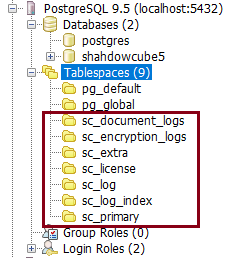
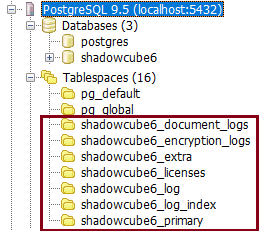
add tablespace pages

diff --git a/ShadowCube/2_sc_sqlserver_filegroup.html b/ShadowCube/2_sc_sqlserver_filegroup.html
@@ -1,0 +1,72 @@
+<!DOCTYPE html>
+<html>
+<head>
+  <meta charset="utf-8" />
+  <title>인성의 DB강의</title>
+  <link rel="stylesheet" type="text/css" media="screen" href="../css/style.css" />
+  <link rel="stylesheet" type="text/css" media="screen" href="../css/github.css" />
+</head>
+<body>
+  <h3>ShadowCube 데이터베이스 구조</h3>
+
+  <h1>SQL Server 파일 및 파일그룹</h1>
+  <ul>
+    <li>
+      ShadowCube 의 SQL Server 에서 사용하는 파일 및 파일그룹에 대해 알아보자.
+    </li>
+  </ul>
+
+  <ol>
+    <li>
+      File Groups<br />
+      <img src="./chapter2/sqlserver_filegroup_1.png" alt="" class="img-xlarge m-l-xs" /><br />
+      <ul>
+        <li>
+          SQL Server 는 데이터베이스의 default 파일그룹이 PRIMARY 로 생성이 된다. 이는 변경할 수 없다. 따라서 ShadowCube 도 PRIMARY 파일그룹을 사용한다.
+        </li>
+        <li>
+          그 외 나머지 파일그룹은 데이터의 성격별로 구분한 것이다.
+        </li>
+        <li>
+          여기서 파일그룹명 prefix 문자열인 shadowcube6 는 정책센터 최초 설치 시, 관리자가 직접 입력한 데이터베이스명을 따라 생성된다.
+        </li>
+      </ul>
+    </li>
+    <li>
+      최초 설치 시, 기본 생성되는 Files<br />
+      <img src="./chapter2/sqlserver_files_1.png" alt="" class="img-xlarge m-l-xs" />
+    </li>
+    <li>
+      이후, 로그 데이터가 쌓이면 새로운 File 이 생성됨<br />
+      <img src="./chapter2/sqlserver_files_2.png" alt="" class="img-xlarge m-l-xs" />
+    </li>
+  </ol>
+
+  <h3>파일그룹별로 쌓이는 데이터 종류</h3>
+  <ul>
+    <li>
+      가장 중요한 데이터는 PRIMARY 파일그룹에 저장하고, 그 외 각 데이터의 성격별로 파일그룹을 만들어 저장한다.
+    </li>
+    <li>
+      복호화 요청, 결재 등은 shadowcube6_extra 에 저장되고, 라이선스 데이터는 shadowcube6_licenses 에 저장된다.
+    </li>
+    <li>
+      문서사용로그는 shadowcube6_document_logs, 암호화로그는 shadowcube6_encryption_logs 에 저장된다.
+    </li>
+    <li>
+      이는 PostgreSQL 과 동일하게 구성되어 있다.
+    </li>
+  </ul>
+
+  <img src="./chapter2/sc_tablespace.png" alt="" class="img-xlarge m-l-xs" />
+  
+  <br /><br />
+  <hr />
+  <a href="../index.html">처음으로</a>&nbsp;&nbsp;
+  <a href="./1_exercise.html">이전</a>
+  <a href="./3_sc_postgres_tablespace.html" class="pull-right">다음</a>
+  <footer>
+    powered by insung / last modified date: 2018-11
+  </footer>
+</body>
+</html>

diff --git a/ShadowCube/3_sc_postgres_tablespace.html b/ShadowCube/3_sc_postgres_tablespace.html
@@ -1,0 +1,43 @@
+<!DOCTYPE html>
+<html>
+<head>
+  <meta charset="utf-8" />
+  <title>인성의 DB강의</title>
+  <link rel="stylesheet" type="text/css" media="screen" href="../css/style.css" />
+  <link rel="stylesheet" type="text/css" media="screen" href="../css/github.css" />
+</head>
+<body>
+  <h3>ShadowCube 데이터베이스 구조</h3>
+
+  <h1>PostgreSQL Tablespace</h1>
+  <ul>
+    <li>
+      ShadowCube 의 PostgreSQL 에서 사용하는 Tablespace 에 대해 알아보자.
+    </li>
+  </ul>
+
+  <ol>
+    <li>
+      PostgreSQL Tablespace 목록<br />
+      <img src="./chapter2/postgres_tablespace_1.png" alt="" class="img-small m-l-xs" />
+    </li>
+    <li>
+      shadowcube5 데이터베이스의 기본 tablespace<br />
+      <img src="./chapter2/postgres_tablespace_2.png" alt="" class="img-xlarge m-l-xs" />
+    </li>
+    <li>
+      디렉토리 구조<br />
+      <img src="./chapter2/postgres_tablespace_3.png" alt="" class="img-small m-l-xs" />
+    </li>
+  </ol>
+  
+  <br /><br />
+  <hr />
+  <a href="../index.html">처음으로</a>&nbsp;&nbsp;
+  <a href="./2_sc_sqlserver_filegroup.html">이전</a>
+  <a href="./4_sc_table_objects.html" class="pull-right">다음</a>
+  <footer>
+    powered by insung / last modified date: 2018-11
+  </footer>
+</body>
+</html>

diff --git a/index.html b/index.html
@@ -210,11 +210,21 @@
     <li>
       <a href="./Tunning/1_intro.html">튜닝의 개념</a>
     </li>
-    <li>SQL문 처리 과정</li>
-    <li>Optimizer</li>
-    <li>Index</li>
-    <li>Join 기법</li>
-    <li>SQL Server 튜닝 도구</li>
+    <li>
+      <a href="./Tunning/2_sql_process.html">SQL문 처리 과정</a>
+    </li>
+    <li>
+      <a href="./Tunning/3_optimizer.html">Optimizer</a>
+    </li>
+    <li>
+      <a href="./Tunning/4_index.html">Index</a>
+    </li>
+    <li>
+      <a href="./Tunning/5_join.html">Join 기법</a>
+    </li>
+    <li>
+      <a href="./Tunning/6_sqlserver_tool.html">SQL Server 튜닝 도구</a>
+    </li>
   </ol>
 
   <h2>끝으로</h2>

diff --git a/Tunning/1_intro.html b/Tunning/1_intro.html
@@ -7,9 +7,9 @@
   <link rel="stylesheet" type="text/css" media="screen" href="../css/github.css" />
 </head>
 <body>
-  <h3>설치 및 설정 변경</h3>
+  <h3>데이터베이스 고급</h3>
 
-  <h1>설치 및 접속방법</h1>
+  <h1>튜닝의 개념</h1>
   <ul>
     <li>
       PostgreSQL 설치하는 방법에 대해 알아보자.

diff --git a/ShadowCube/1_exercise.html b/ShadowCube/1_exercise.html
@@ -39,7 +39,7 @@
   <br /><br />
   <hr />
   <a href="../index.html">처음으로</a>&nbsp;&nbsp;
-  <a href="./login.html" class="pull-right">다음</a>
+  <a href="./2_sc_sqlserver_filegroup.html" class="pull-right">다음</a>
   <footer>
     powered by insung / last modified date: 2018-11
   </footer>
